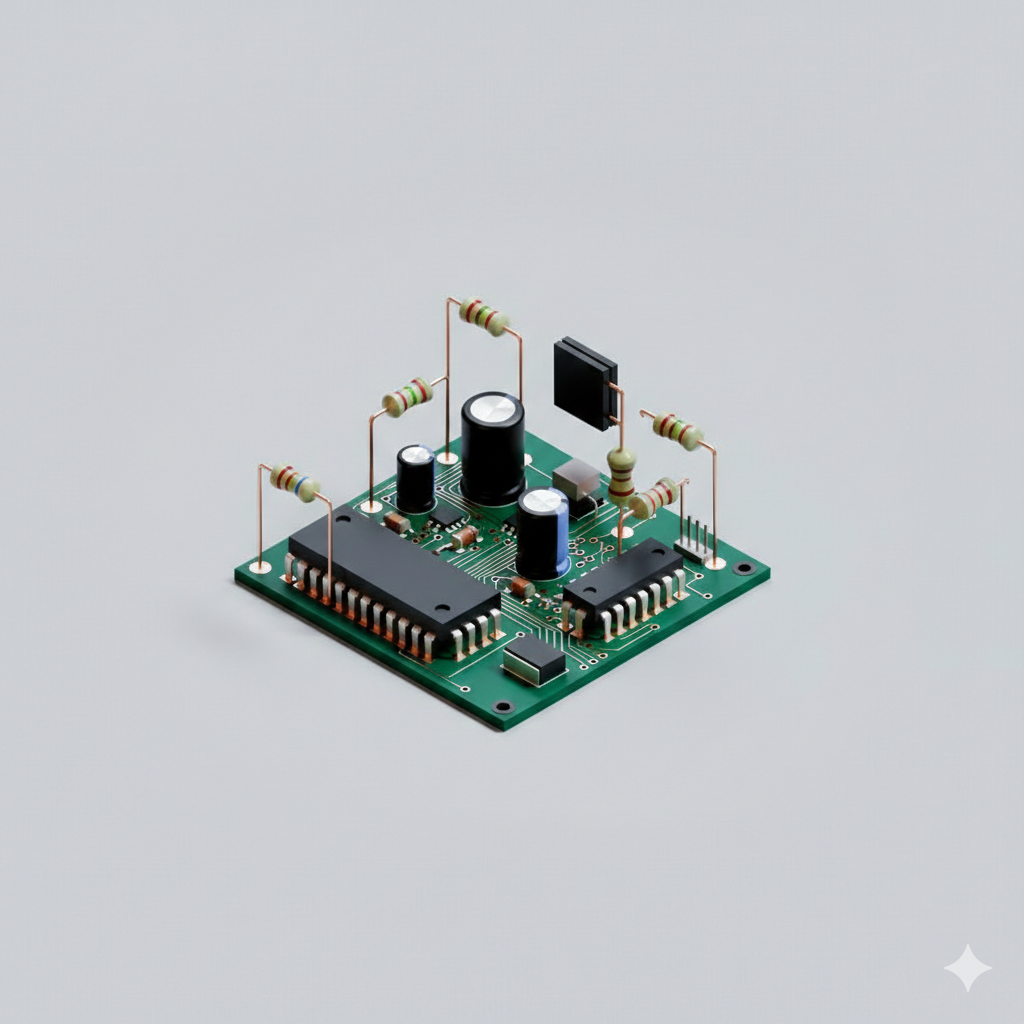
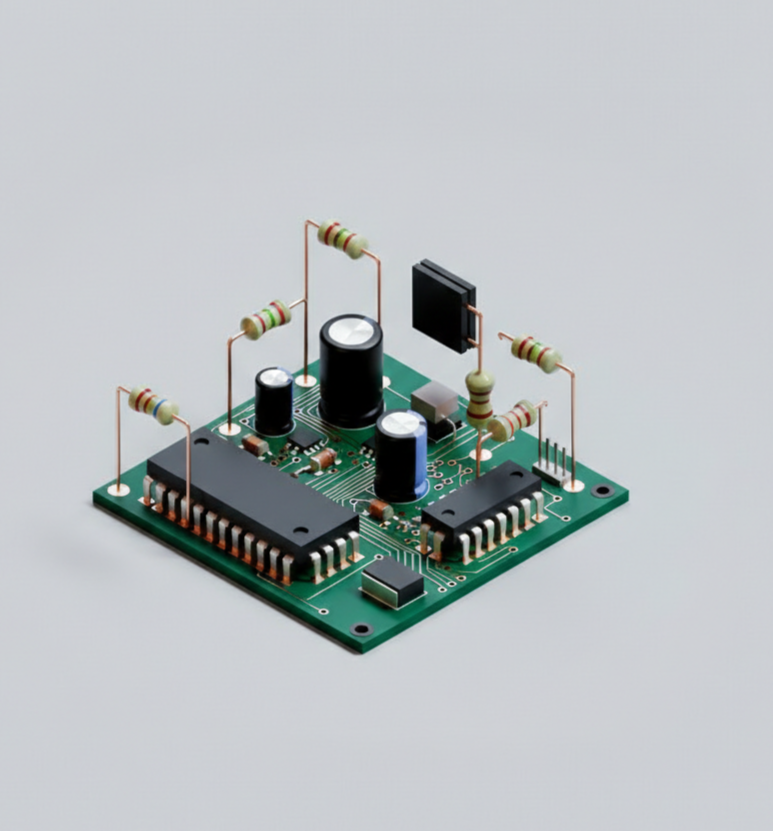
SW images reset

Changed region(s): [[0.1242, 0.2708, 0.8383, 0.8123], [0.9314, 0.9326, 0.9625, 0.9627]]

diff --git a/src/pages/Services/SoftwareEngineering.jsx b/src/pages/Services/SoftwareEngineering.jsx
@@ -89,7 +89,7 @@ const S2 = () => {
           <section className="content-section section-with-image reverse">
             <div className="section-image-wrapper">
               <div style={{ maxWidth: "600px" }}>
-                <img src="/S_SW/Picture0.jpeg" alt="Custom UI" className="section-image" style={{ height: "auto", width: "100%", objectFit: "contain" }} />
+                <img src="/S_SW/Picture0.png" alt="Custom UI" className="section-image" style={{ height: "auto", width: "100%", objectFit: "contain" }} />
               </div>
             </div>
             <div className="section-text">
@@ -115,7 +115,7 @@ const S2 = () => {
 
           <section className="content-section section-with-image">
             <div className="section-image-wrapper">
-              <img src="/S_SW/Picture1.jpeg" alt="Connectivity" className="section-image" />
+              <img src="/S_SW/Picture1.png" alt="Connectivity" className="section-image" />
             </div>
             <div className="section-text">
               <h2>SWE.2 Software Architectural Design</h2>
@@ -148,7 +148,7 @@ const S2 = () => {
 
           <section className="content-section section-with-image reverse">
             <div className="section-image-wrapper">
-              <img src="/S_SW/Picture2.jpeg" alt="Software Updates" className="section-image" />
+              <img src="/S_SW/Picture2.png" alt="Software Updates" className="section-image" />
             </div>
             <div className="section-text">
               <h2>SWE.3 Software Detailed Design & Unit Construction</h2>
@@ -201,7 +201,7 @@ const S2 = () => {
           </div>
           <section className="content-section section-with-image">
             <div className="section-image-wrapper">
-              <img src="/S_SW/Picture3.jpeg" alt="Connectivity" className="section-image" />
+              <img src="/S_SW/Picture3.png" alt="Connectivity" className="section-image" />
             </div>
             <div className="section-text">
               <h2>SWE.4 Software Unit Verification</h2>
@@ -232,7 +232,7 @@ const S2 = () => {
 
           <section className="content-section section-with-image reverse">
             <div className="section-image-wrapper">
-              <img src="/S_SW/Picture4.jpeg" alt="Software Updates" className="section-image" />
+              <img src="/S_SW/Picture4.png" alt="Software Updates" className="section-image" />
             </div>
             <div className="section-text">
               <h2>SWE.5 Software Integration & Integration Verification</h2>
@@ -266,7 +266,7 @@ const S2 = () => {
 
           <section className="content-section section-with-image">
             <div className="section-image-wrapper">
-              <img src="/S_SW/Picture5.jpeg" alt="Connectivity" className="section-image" />
+              <img src="/S_SW/Picture5.png" alt="Connectivity" className="section-image" />
             </div>
             <div className="section-text">
               <h2>SWE.6 Software Qualification Testing</h2>
